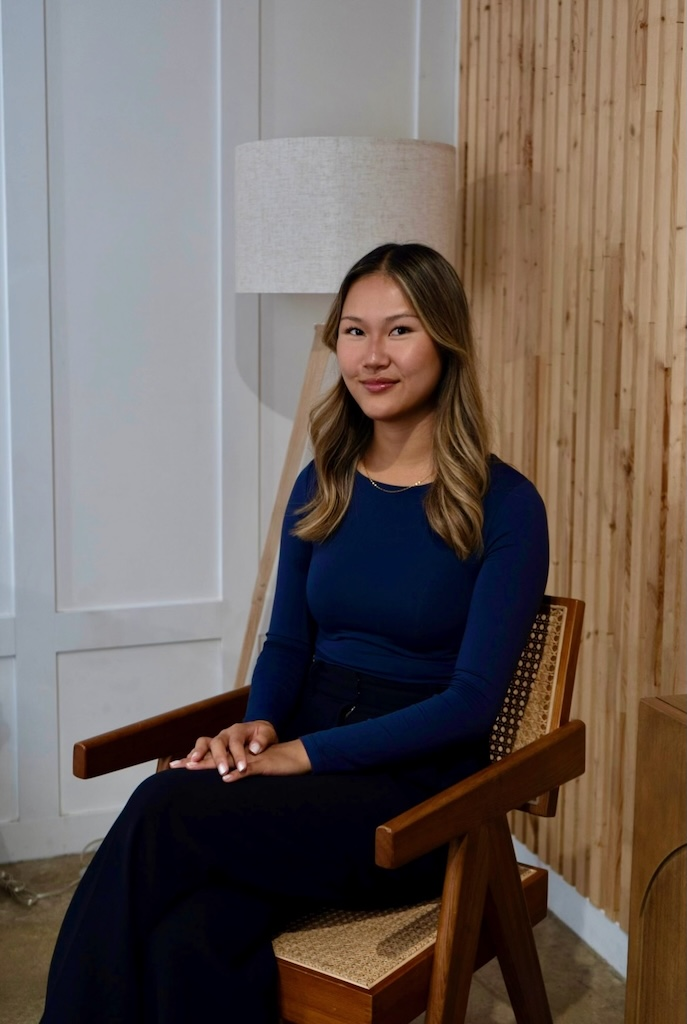
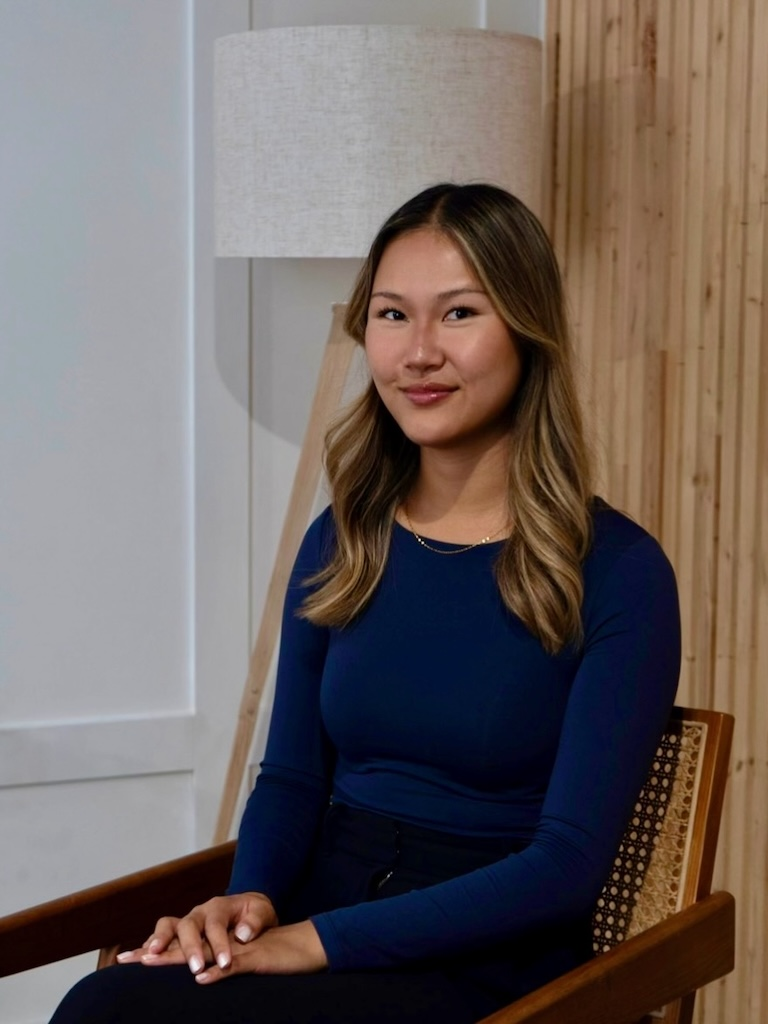
fix layout

diff --git a/app/page.tsx b/app/page.tsx
@@ -50,7 +50,7 @@ useEffect(() => {
 
       {/* Centered Box + Header Wrapper */}
       <div className="absolute top-1/2 left-1/2 -translate-x-1/2 -translate-y-1/2 z-10 flex flex-col items-center">
-        <div className=" w-[250px] sm:w-[300px] md:w-[325px] lg:w-[350px]  ration[4/3] bg-white shadow-lg rounded-lg">
+        <div className="sm:w-[300px] md:w-[325px] lg:w-[350px]  ration[4/3] bg-white shadow-lg rounded-lg">
             <Image
             src="/sara-profile.jpeg"
             alt={data? `Profile picture of ${data?.name}` : ''} 
@@ -59,7 +59,7 @@ useEffect(() => {
             className="object-contain rounded-lg "
           />
         </div>
-        <h1 className="justify-center mt-[20px] text-3xl md:text-4xl lg:text-5xl ">{data?.name}</h1>
+        <h1 className="justify-center mt-[20px] text-2xl sm:text-3xl md:text-4xl lg:text-5xl ">{data?.name}</h1>
       </div>
 
       {/* Optional: Overlay component like <About /> if it stays within screen */}

diff --git a/init-scripts/01-seed.js b/init-scripts/01-seed.js
@@ -44,7 +44,7 @@ db.info.updateOne(
         heading: "Work Experience",
         jobs: [
           { name: "CIBC", title: "Governance Anaylist", date: "25" },
-          { name: "Hydro One", title: "Internal Coms. Intern", date: "24" },
+          { name: "Hydro One", title: "Internal Comms. Intern", date: "24" },
           { name: "City of Toronto", title: "Pool Manager", date: "22-25" }
         ],
       },
